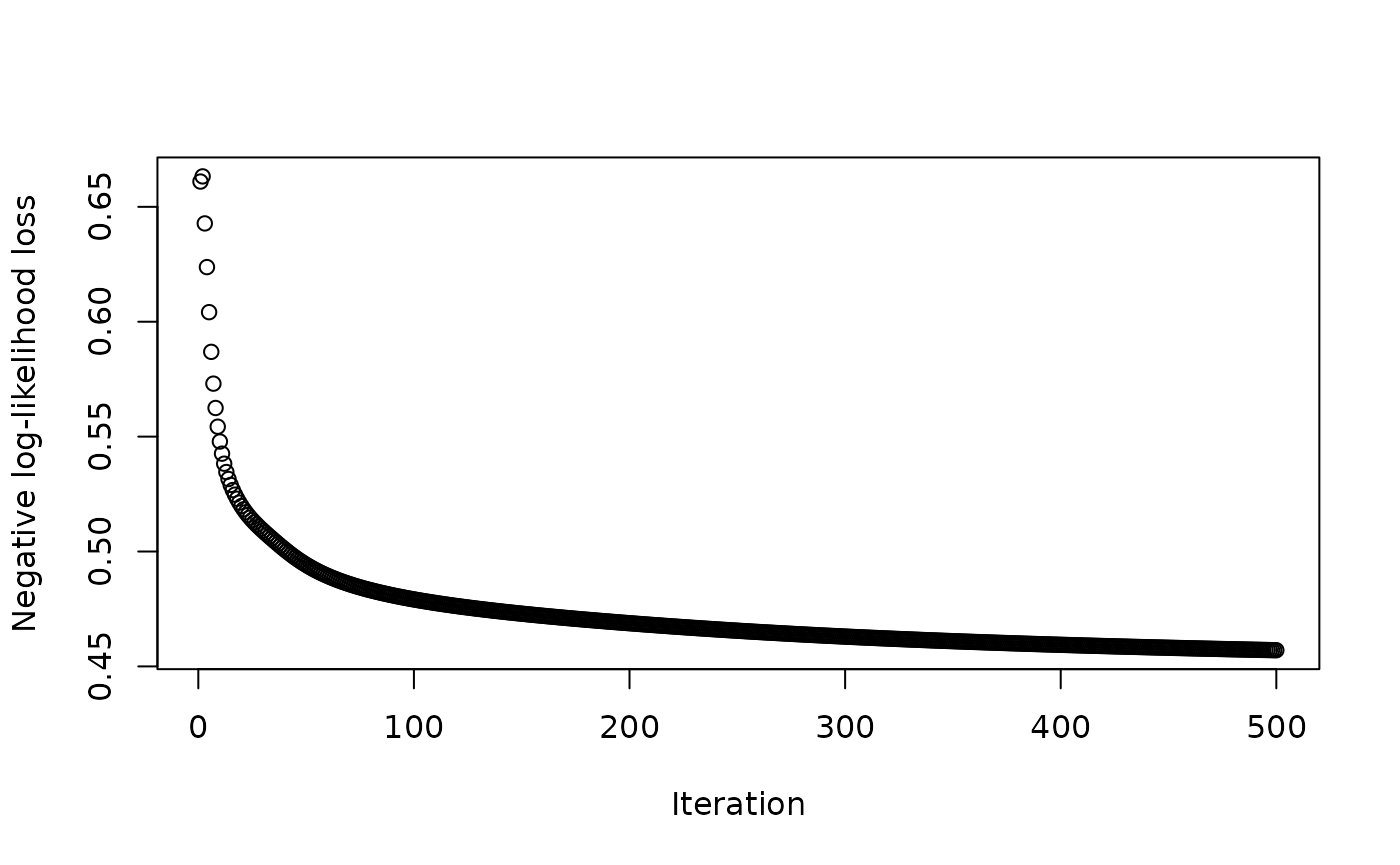
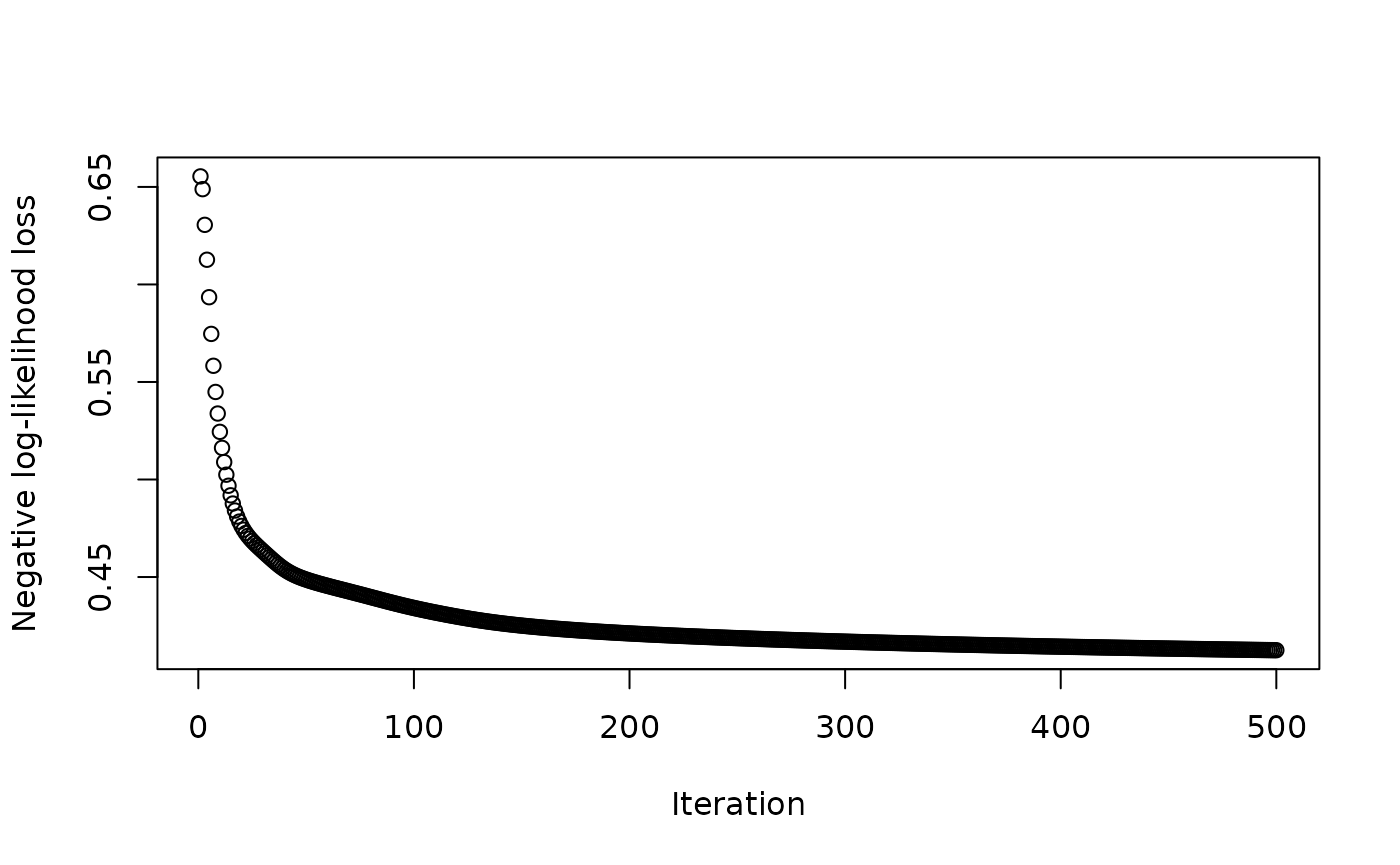
Deploying to gh-pages from @ michalovadek/nmfbin@767b593d797aa64c12ac7a3a672247b5f94f1fbc 🚀

diff --git a/index.html b/index.html
@@ -5,14 +5,14 @@
 <meta charset="utf-8">
 <meta http-equiv="X-UA-Compatible" content="IE=edge">
 <meta name="viewport" content="width=device-width, initial-scale=1, shrink-to-fit=no">
-<meta name="description" content="Factorize binary matrices into rank-k components.">
+<meta name="description" content="Factorize binary matrices into rank-k components using simple but appropriate loss functions and optimization algorithms.">
 <title>Non-negative Matrix Factorization for Binary Data • nmfbin</title>
 <script src="deps/jquery-3.6.0/jquery-3.6.0.min.js"></script><meta name="viewport" content="width=device-width, initial-scale=1, shrink-to-fit=no">
 <link href="deps/bootstrap-5.2.2/bootstrap.min.css" rel="stylesheet">
 <script src="deps/bootstrap-5.2.2/bootstrap.bundle.min.js"></script><!-- Font Awesome icons --><link rel="stylesheet" href="https://cdnjs.cloudflare.com/ajax/libs/font-awesome/5.12.1/css/all.min.css" integrity="sha256-mmgLkCYLUQbXn0B1SRqzHar6dCnv9oZFPEC1g1cwlkk=" crossorigin="anonymous">
 <link rel="stylesheet" href="https://cdnjs.cloudflare.com/ajax/libs/font-awesome/5.12.1/css/v4-shims.min.css" integrity="sha256-wZjR52fzng1pJHwx4aV2AO3yyTOXrcDW7jBpJtTwVxw=" crossorigin="anonymous">
 <!-- bootstrap-toc --><script src="https://cdn.jsdelivr.net/gh/afeld/bootstrap-toc@v1.0.1/dist/bootstrap-toc.min.js" integrity="sha256-4veVQbu7//Lk5TSmc7YV48MxtMy98e26cf5MrgZYnwo=" crossorigin="anonymous"></script><!-- headroom.js --><script src="https://cdnjs.cloudflare.com/ajax/libs/headroom/0.11.0/headroom.min.js" integrity="sha256-AsUX4SJE1+yuDu5+mAVzJbuYNPHj/WroHuZ8Ir/CkE0=" crossorigin="anonymous"></script><script src="https://cdnjs.cloudflare.com/ajax/libs/headroom/0.11.0/jQuery.headroom.min.js" integrity="sha256-ZX/yNShbjqsohH1k95liqY9Gd8uOiE1S4vZc+9KQ1K4=" crossorigin="anonymous"></script><!-- clipboard.js --><script src="https://cdnjs.cloudflare.com/ajax/libs/clipboard.js/2.0.6/clipboard.min.js" integrity="sha256-inc5kl9MA1hkeYUt+EC3BhlIgyp/2jDIyBLS6k3UxPI=" crossorigin="anonymous"></script><!-- search --><script src="https://cdnjs.cloudflare.com/ajax/libs/fuse.js/6.4.6/fuse.js" integrity="sha512-zv6Ywkjyktsohkbp9bb45V6tEMoWhzFzXis+LrMehmJZZSys19Yxf1dopHx7WzIKxr5tK2dVcYmaCk2uqdjF4A==" crossorigin="anonymous"></script><script src="https://cdnjs.cloudflare.com/ajax/libs/autocomplete.js/0.38.0/autocomplete.jquery.min.js" integrity="sha512-GU9ayf+66Xx2TmpxqJpliWbT5PiGYxpaG8rfnBEk1LL8l1KGkRShhngwdXK1UgqhAzWpZHSiYPc09/NwDQIGyg==" crossorigin="anonymous"></script><script src="https://cdnjs.cloudflare.com/ajax/libs/mark.js/8.11.1/mark.min.js" integrity="sha512-5CYOlHXGh6QpOFA/TeTylKLWfB3ftPsde7AnmhuitiTX4K5SqCLBeKro6sPS8ilsz1Q4NRx3v8Ko2IBiszzdww==" crossorigin="anonymous"></script><!-- pkgdown --><script src="pkgdown.js"></script><meta property="og:title" content="Non-negative Matrix Factorization for Binary Data">
-<meta property="og:description" content="Factorize binary matrices into rank-k components.">
+<meta property="og:description" content="Factorize binary matrices into rank-k components using simple but appropriate loss functions and optimization algorithms.">
 <!-- mathjax --><script src="https://cdnjs.cloudflare.com/ajax/libs/mathjax/2.7.5/MathJax.js" integrity="sha256-nvJJv9wWKEm88qvoQl9ekL2J+k/RWIsaSScxxlsrv8k=" crossorigin="anonymous"></script><script src="https://cdnjs.cloudflare.com/ajax/libs/mathjax/2.7.5/config/TeX-AMS-MML_HTMLorMML.js" integrity="sha256-84DKXVJXs0/F8OTMzX4UR909+jtl4G7SPypPavF+GfA=" crossorigin="anonymous"></script><!--[if lt IE 9]>
 <script src="https://oss.maxcdn.com/html5shiv/3.7.3/html5shiv.min.js"></script>
 <script src="https://oss.maxcdn.com/respond/1.4.2/respond.min.js"></script>
@@ -60,11 +60,11 @@
 </nav><div class="container template-home">
 <div class="row">
   <main id="main" class="col-md-9"><div class="section level1">
-<div class="page-header"><h1 id="nmfbin-non-negative-matrix-factorization-for-binary-data">nmfbin: Non-Negative Matrix Factorization for Binary Data<a class="anchor" aria-label="anchor" href="#nmfbin-non-negative-matrix-factorization-for-binary-data"></a>
+<div class="page-header"><h1 id="nmfbin-non-negative-matrix-factorization-for-binary-data">nmfbin: Non-negative Matrix Factorization for Binary Data<a class="anchor" aria-label="anchor" href="#nmfbin-non-negative-matrix-factorization-for-binary-data"></a>
 </h1></div>
 <!-- badges: start -->
 
-<p>The <code>nmfbin</code> R package provides a simple Non-Negative Matrix Factorization (NMF) implementation tailored for binary data matrices. It offers a choice of initialization methods, loss functions and updating algorithms.</p>
+<p>The <code>nmfbin</code> R package provides a simple Non-negative Matrix Factorization (NMF) implementation tailored for binary data matrices. It offers a choice of initialization methods, loss functions and updating algorithms.</p>
 <p>NMF is typically used for reducing high-dimensional matrices into lower (k-) rank ones where <em>k</em> is chosen by the user. Given a non-negative matrix <em>X</em> of size <span class="math inline"><em>m</em> × <em>n</em></span>, NMF looks for two non-negative matrices <em>W</em> (<span class="math inline"><em>m</em> × <em>k</em></span>) and <em>H</em> (<span class="math inline"><em>k</em> × <em>n</em></span>), such that:</p>
 <p><span class="math display"><em>X</em> ≈ <em>W</em> × <em>H</em></span></p>
 <p>In topic modelling, <em>W</em> is interpreted as the document-topic matrix and <em>H</em> as the topic-feature matrix.</p>

diff --git a/articles/introduction.html b/articles/introduction.html
@@ -81,13 +81,15 @@ like so:</p>
 <span><span class="co"># Create a binary matrix for demonstration</span></span>
 <span><span class="va">X</span> <span class="op">&lt;-</span> <span class="fu"><a href="https://rdrr.io/r/base/matrix.html" class="external-link">matrix</a></span><span class="op">(</span><span class="fu"><a href="https://rdrr.io/r/base/sample.html" class="external-link">sample</a></span><span class="op">(</span><span class="fu"><a href="https://rdrr.io/r/base/c.html" class="external-link">c</a></span><span class="op">(</span><span class="fl">0</span>, <span class="fl">1</span><span class="op">)</span>, <span class="fl">100</span>, replace <span class="op">=</span> <span class="cn">TRUE</span><span class="op">)</span>, ncol <span class="op">=</span> <span class="fl">10</span><span class="op">)</span></span>
 <span></span>
-<span><span class="co"># Perform NMF</span></span>
+<span><span class="co"># Perform Logistic NMF</span></span>
 <span><span class="va">results</span> <span class="op">&lt;-</span> <span class="fu"><a href="../reference/nmfbin.html">nmfbin</a></span><span class="op">(</span><span class="va">X</span>, k <span class="op">=</span> <span class="fl">3</span>, optimizer <span class="op">=</span> <span class="st">"mur"</span>, init <span class="op">=</span> <span class="st">"nndsvd"</span>, loss_fun <span class="op">=</span> <span class="st">"logloss"</span>, max_iter <span class="op">=</span> <span class="fl">500</span><span class="op">)</span></span></code></pre></div>
-<p>The results include the final loss:</p>
+<p>We can retrieve the final loss value before convergence criteria were
+reached:</p>
 <div class="sourceCode" id="cb2"><pre class="downlit sourceCode r">
-<code class="sourceCode R"><span><span class="fu"><a href="https://rdrr.io/r/base/print.html" class="external-link">print</a></span><span class="op">(</span><span class="va">results</span><span class="op">$</span><span class="va">final_loss</span><span class="op">)</span></span>
-<span><span class="co">#&gt; [1] 0.4570503</span></span></code></pre></div>
-<p>We can also easily plot the optimization process.</p>
+<code class="sourceCode R"><span><span class="fu"><a href="https://rdrr.io/r/base/print.html" class="external-link">print</a></span><span class="op">(</span><span class="va">results</span><span class="op">$</span><span class="va">convergence</span><span class="op">[</span><span class="fu"><a href="https://rdrr.io/r/base/length.html" class="external-link">length</a></span><span class="op">(</span><span class="va">results</span><span class="op">$</span><span class="va">convergence</span><span class="op">)</span><span class="op">]</span><span class="op">)</span></span>
+<span><span class="co">#&gt; [1] 0.4124835</span></span></code></pre></div>
+<p>We can also easily plot the optimization process at every
+iteration:</p>
 <div class="sourceCode" id="cb3"><pre class="downlit sourceCode r">
 <code class="sourceCode R"><span><span class="fu"><a href="https://rdrr.io/r/graphics/plot.default.html" class="external-link">plot</a></span><span class="op">(</span><span class="va">results</span><span class="op">$</span><span class="va">convergence</span>,</span>
 <span>     xlab <span class="op">=</span> <span class="st">"Iteration"</span>,</span>

diff --git a/reference/nmfbin.html b/reference/nmfbin.html
@@ -118,11 +118,26 @@
 
 <p>A list containing:</p><ul><li><p><code>W</code>: The basis matrix (m x k). The document-topic matrix in topic modelling.</p></li>
 <li><p><code>H</code>: The coefficient matrix (k x n). Contribution of features to factors (topics).</p></li>
-<li><p><code>c</code>: The global threshold.</p></li>
+<li><p><code>c</code>: The global threshold. A constant.</p></li>
 <li><p><code>convergence</code>: Divergence (loss) from <code>X</code> at every <code>iter</code> until <code>tol</code> or <code>max_iter</code> is reached.</p></li>
-<li><p><code>final_loss</code>: The final loss before <code>tol</code> or <code>max_iter</code> was reached.</p></li>
 </ul></div>
 
+    <div class="section level2">
+    <h2 id="ref-examples">Examples<a class="anchor" aria-label="anchor" href="#ref-examples"></a></h2>
+    <div class="sourceCode"><pre class="sourceCode r"><code><span class="r-in"><span><span class="kw">if</span> <span class="op">(</span><span class="cn">FALSE</span><span class="op">)</span> <span class="op">{</span></span></span>
+<span class="r-in"><span><span class="co"># Generate a binary matrix</span></span></span>
+<span class="r-in"><span><span class="va">m</span> <span class="op">&lt;-</span> <span class="fl">100</span></span></span>
+<span class="r-in"><span><span class="va">n</span> <span class="op">&lt;-</span> <span class="fl">50</span></span></span>
+<span class="r-in"><span><span class="va">X</span> <span class="op">&lt;-</span> <span class="fu"><a href="https://rdrr.io/r/base/matrix.html" class="external-link">matrix</a></span><span class="op">(</span><span class="fu"><a href="https://rdrr.io/r/base/sample.html" class="external-link">sample</a></span><span class="op">(</span><span class="fu"><a href="https://rdrr.io/r/base/c.html" class="external-link">c</a></span><span class="op">(</span><span class="fl">0</span>, <span class="fl">1</span><span class="op">)</span>, <span class="va">m</span> <span class="op">*</span> <span class="va">n</span>, replace <span class="op">=</span> <span class="cn">TRUE</span><span class="op">)</span>, <span class="va">m</span>, <span class="va">n</span><span class="op">)</span></span></span>
+<span class="r-in"><span></span></span>
+<span class="r-in"><span><span class="co"># Set the number of factors</span></span></span>
+<span class="r-in"><span><span class="va">k</span> <span class="op">&lt;-</span> <span class="fl">4</span></span></span>
+<span class="r-in"><span></span></span>
+<span class="r-in"><span><span class="co"># Factorize the matrix with default settings</span></span></span>
+<span class="r-in"><span><span class="va">result</span> <span class="op">&lt;-</span> <span class="fu">nmfbin</span><span class="op">(</span><span class="va">X</span>, <span class="va">k</span><span class="op">)</span></span></span>
+<span class="r-in"><span><span class="op">}</span></span></span>
+</code></pre></div>
+    </div>
   </main><aside class="col-md-3"><nav id="toc"><h2>On this page</h2>
     </nav></aside></div>
 

diff --git a/news/index.html b/news/index.html
@@ -47,6 +47,8 @@
     <div class="section level2">
 <h2 class="pkg-version" data-toc-text="0.2.1" id="nmfbin-021">nmfbin 0.2.1<a class="anchor" aria-label="anchor" href="#nmfbin-021"></a></h2>
 <ul><li>documentation improvements</li>
+<li>removed <code>final_loss</code> because already in <code>convergence</code>
+</li>
 </ul></div>
     <div class="section level2">
 <h2 class="pkg-version" data-toc-text="0.2.0" id="nmfbin-020">nmfbin 0.2.0<a class="anchor" aria-label="anchor" href="#nmfbin-020"></a></h2>
